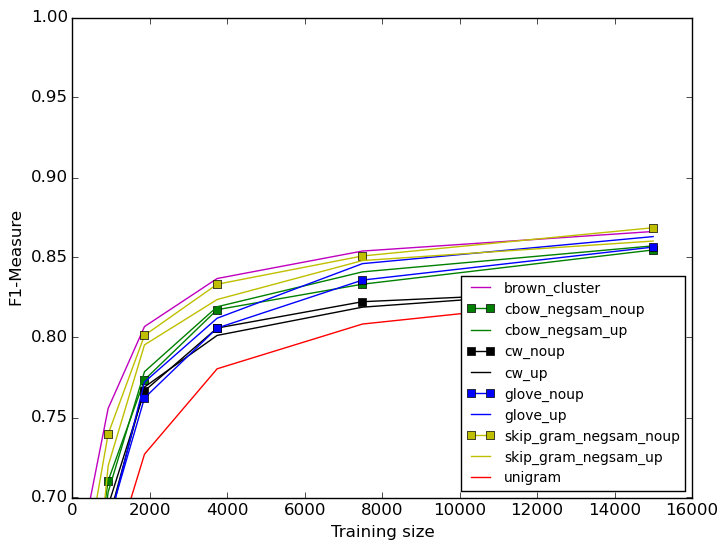
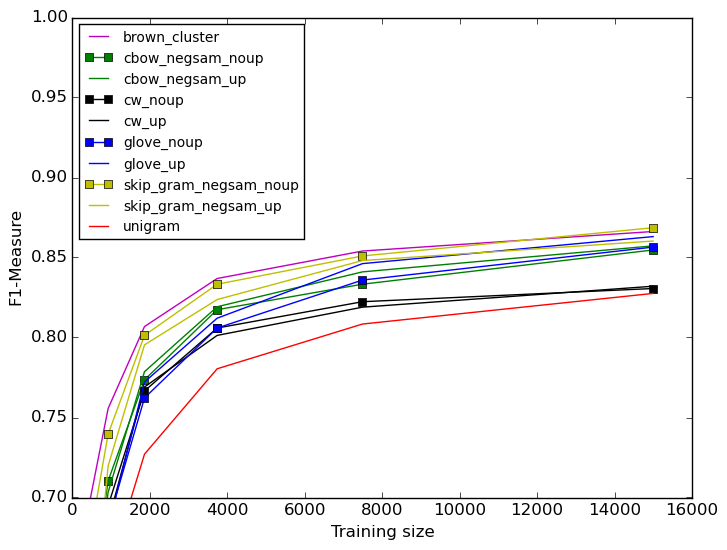
set legend loc to best

Changed region(s): [[0.0908, 0.0309, 0.4237, 0.4636], [0.6355, 0.4945, 0.9684, 0.8964]]

diff --git a/plots/bestChunk.py b/plots/bestChunk.py
@@ -47,8 +47,7 @@ marker = ''
 linestyle = '-'
 noupMarker = 's'
 walk_dir = inputfolder
-legParams = {'legend.fontsize': 10,
-          'legend.linewidth': 0.4}
+legParams = {'legend.fontsize': 10}
 
 
 alist_filter = ['brown_cluster_v2000_best.txt', 
@@ -160,7 +159,7 @@ plt.ylim([.7,1])
 plt.xlabel('Training size')
 plt.ylabel('F1-Measure')
 
-#plt.rcParams.update(legParams)
+plt.rcParams.update(legParams)
 plt.legend(loc='lower right')
 savefig(outputfile, bbox_inches='tight')
 #plt.show()

diff --git a/plots/bestNER.py b/plots/bestNER.py
@@ -148,7 +148,7 @@ plt.ylim([.7,1])
 plt.xlabel('Training size')
 plt.ylabel('F1-Measure')
 plt.rcParams.update(legParams)
-plt.legend(loc='lower right')
+plt.legend(loc='best')
 savefig(outputfile, bbox_inches='tight')
 #plt.show()
 
